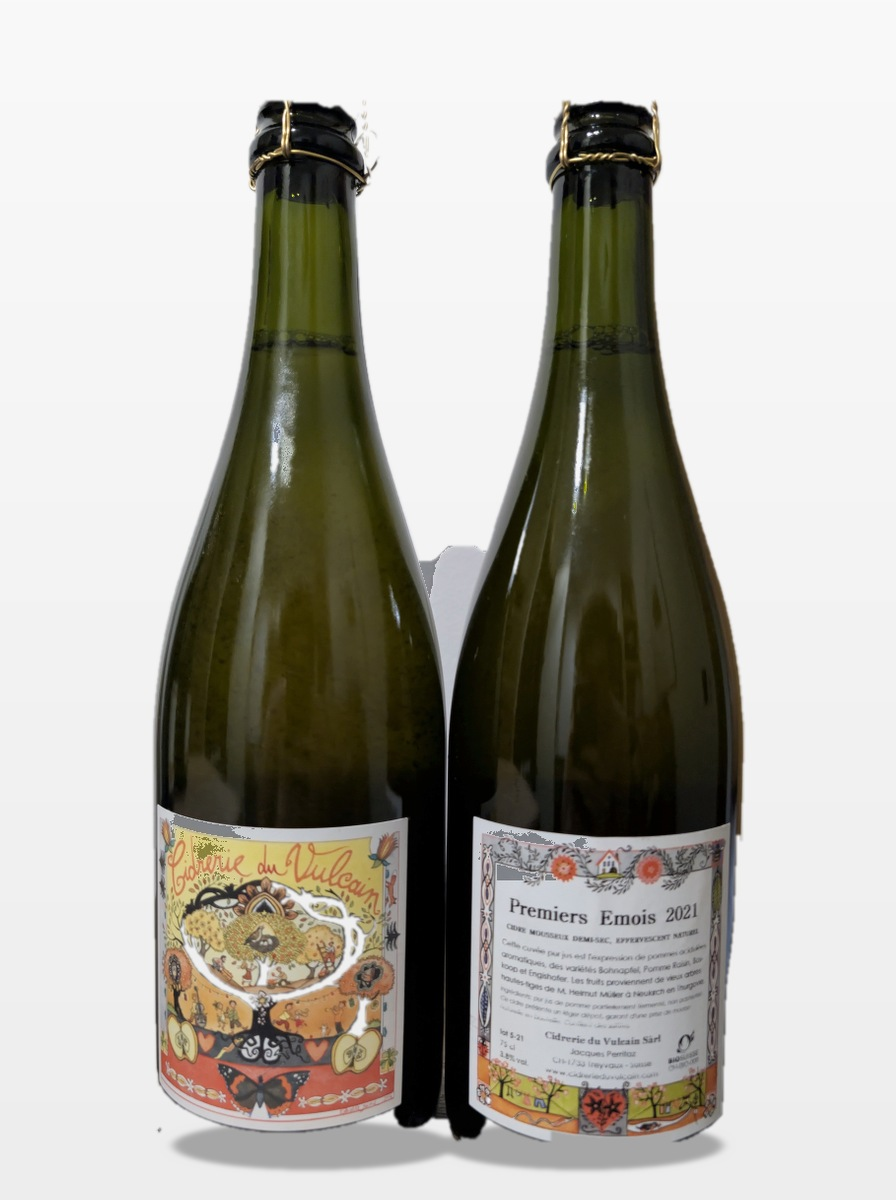
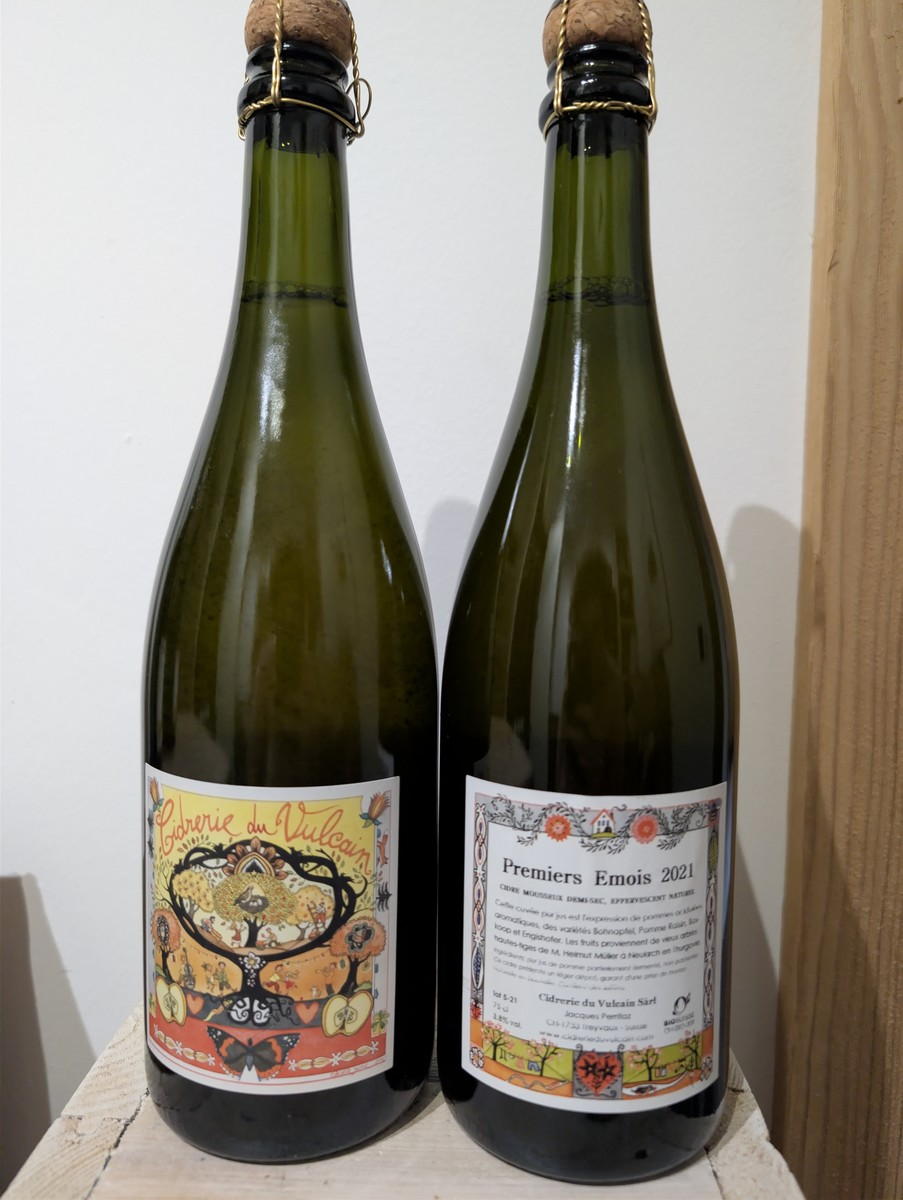
feat(photos): publication directe des photos brutes authentiques pour les 18 cuvees sans retouche

diff --git a/public/validation-photos.html b/public/validation-photos.html
@@ -562,20 +562,7 @@
     </div>
   </div>
 
-  <div style="max-width: 1440px; margin: 16px auto 0; padding: 0 32px;">
-    <div style="background: rgba(245, 158, 11, 0.08); border: 1px solid rgba(245, 158, 11, 0.25); border-radius: 14px; padding: 16px 20px;">
-      <div style="display:flex; align-items:center; gap:10px; margin-bottom: 8px;">
-        <span style="font-size: 18px;">💡</span>
-        <strong style="color: #fbbf24; font-size: 14px;">Diagnostic Photo 2 (Bouteille seule devant) & Photo 3 (Bouteille seule derrière)</strong>
-      </div>
-      <p style="font-size: 13px; color: #d1d5db; line-height: 1.5; margin-bottom: 10px;">
-        Sur la série brute du 1er octobre, <strong>seule la cuvée <em>A Propos d'Ailes 2021</em></strong> (et les 2 bouteilles fines Botsi & Transparente) disposait de photos de la <strong>bouteille entière isolée</strong> (du bouchon jusqu'au culot). Pour les 14 autres cuvées, seules des photos en <strong>gros plan serré sur l'étiquette</strong> avaient été prises (coupant le bouchon et le col), ce qui créait un effet de tronc tronqué flottant.
-      </p>
-      <div style="font-size: 12px; color: #9ca3af;">
-        Pour obtenir un résultat identique à <em>A Propos d'Ailes</em> et <em>Poiré La Prémoudière</em>, 2 photos par cuvée sont à prendre : <strong>1 bouteille seule complète de face</strong> et <strong>1 bouteille seule complète de dos</strong> (bouchon + col + culot dans le champ).
-      </div>
-    </div>
-  </div>
+
 
   <main id="cuveesList">
     <!-- Populated by JavaScript -->
@@ -816,9 +803,9 @@
         card.className = `cuvee-card ${isValidated ? 'is-validated' : ''}`;
         card.id = `card-${c.slug}`;
 
-        const duoJpg = `images/cuvees/${c.slug}-duo.jpg${CACHE_BUST}`;
-        const frontJpg = `images/cuvees/${c.slug}-etiquette-devant.jpg${CACHE_BUST}`;
-        const backJpg = c.backRaw ? `images/cuvees/${c.slug}-etiquette-derriere.jpg${CACHE_BUST}` : null;
+        const duoPhoto = c.duoRaw ? `photo-bouteilles-raw/${c.duoRaw}` : null;
+        const frontPhoto = c.frontRaw ? `photo-bouteilles-raw/${c.frontRaw}` : null;
+        const backPhoto = c.backRaw ? `photo-bouteilles-raw/${c.backRaw}` : null;
 
         card.innerHTML = `
           <div class="cuvee-header">
@@ -840,89 +827,72 @@
           </div>
 
           <div class="images-grid">
-            <!-- Photo 1: Duo -->
+            <!-- Photo 1: Duo (Deux Bouteilles) -->
             <div class="photo-slot">
               <div class="photo-slot-header">
                 <span class="photo-slot-title">Photo 1 • Deux Bouteilles</span>
-                ${c.duoRaw ? 
-                  '<span class="photo-status-badge badge-ok">✓ Ancré au sol</span>' : 
+                ${duoPhoto ? 
+                  '<span class="photo-status-badge badge-ok">✓ Photo brute authentique</span>' : 
                   '<span class="photo-status-badge badge-info">🏷 Étiquette panoramique (pas de duo)</span>'
                 }
               </div>
-              ${c.duoRaw ? `
-                <div class="photo-preview-wrap" onclick="openLightbox('${duoJpg}', '${c.name} — Photo 1 (Duo devant / derrière)')">
-                  <img src="${duoJpg}" alt="${c.name} duo" loading="lazy">
-                  <div class="zoom-hint">🔍 Zoom HD</div>
+              ${duoPhoto ? `
+                <div class="photo-preview-wrap" onclick="openLightbox('${duoPhoto}', '${c.name} — Photo 1 (Deux bouteilles)')">
+                  <img src="${duoPhoto}" alt="${c.name} duo" loading="lazy">
+                  <div class="zoom-hint">🔍 Agrandir</div>
                 </div>
-                <div class="raw-thumb-compare">
-                  <img src="photo-all-bottle-raw/${c.duoRaw}" alt="Raw original">
-                  <div style="flex:1;">
-                    <div style="font-weight:600; color:#d1d5db;">Photo brute originale</div>
-                    <div style="font-size:11px; color:#9ca3af; font-family:monospace;">${c.duoRaw}</div>
-                  </div>
-                  <span class="view-raw-link" onclick="openLightbox('photo-all-bottle-raw/${c.duoRaw}', 'RAW: ${c.duoRaw}')">Voir RAW</span>
-                </div>
+                <div style="font-size:11px; color:#9ca3af; font-family:monospace; margin-top:6px;">${c.duoRaw}</div>
               ` : `
                 <div class="photo-preview-wrap" style="display:flex; align-items:center; justify-content:center; flex-direction:column; gap:8px; color:#9ca3af; text-align:center; padding:20px;">
                   <span style="font-size:28px;">🍾</span>
                   <span style="font-size:13px; font-weight:700; color:#e5e7eb;">Pas d'étiquette au dos</span>
-                  <span style="font-size:12px; color:#9ca3af; line-height: 1.4;">Cette bouteille fine comporte une étiquette panoramique unique. Pas d'image duo nécessaire.</span>
+                  <span style="font-size:12px; color:#9ca3af; line-height: 1.4;">Cette bouteille fine comporte une étiquette panoramique unique.</span>
                 </div>
               `}
             </div>
 
-            <!-- Photo 2: Bouteille Seule Devant -->
+            <!-- Photo 2: Bouteille Seule (Face) -->
             <div class="photo-slot">
               <div class="photo-slot-header">
-                <span class="photo-slot-title">Photo 2 • Seule (Face)</span>
-                ${c.needsFront ? 
-                  '<span class="photo-status-badge badge-warn">⚠ À reprendre : bouteille complète</span>' : 
-                  '<span class="photo-status-badge badge-ok">✓ Bouteille complète conforme</span>'
+                <span class="photo-slot-title">Photo 2 • Face</span>
+                ${frontPhoto ? 
+                  '<span class="photo-status-badge badge-ok">✓ Photo brute authentique</span>' : 
+                  '<span class="photo-status-badge badge-info">-</span>'
                 }
               </div>
-              <div class="photo-preview-wrap" onclick="openLightbox('${frontJpg}', '${c.name} — Photo 2 (Bouteille seule de face)')">
-                <img src="${frontJpg}" alt="${c.name} seule devant" loading="lazy">
-                <div class="zoom-hint">🔍 Zoom HD</div>
-              </div>
-              <div class="raw-thumb-compare">
-                <img src="photo-all-bottle-raw/${c.frontRaw}" alt="Raw original">
-                <div style="flex:1;">
-                  <div style="font-weight:600; color:#d1d5db;">${c.needsFront ? '⚠ Gros plan actuel (tronqué)' : 'Photo brute originale (bouteille complète)'}</div>
-                  <div style="font-size:11px; color:#9ca3af; font-family:monospace;">${c.frontRaw}</div>
+              ${frontPhoto ? `
+                <div class="photo-preview-wrap" onclick="openLightbox('${frontPhoto}', '${c.name} — Photo 2 (Face)')">
+                  <img src="${frontPhoto}" alt="${c.name} face" loading="lazy">
+                  <div class="zoom-hint">🔍 Agrandir</div>
                 </div>
-                <span class="view-raw-link" onclick="openLightbox('photo-all-bottle-raw/${c.frontRaw}', 'RAW: ${c.frontRaw}')">Voir RAW</span>
-              </div>
+                <div style="font-size:11px; color:#9ca3af; font-family:monospace; margin-top:6px;">${c.frontRaw}</div>
+              ` : `
+                <div class="photo-preview-wrap" style="display:flex; align-items:center; justify-content:center; padding:20px; color:#9ca3af;">
+                  <span>Aucune photo</span>
+                </div>
+              `}
             </div>
 
-            <!-- Photo 3: Bouteille Seule Derrière -->
+            <!-- Photo 3: Bouteille Seule (Dos) -->
             <div class="photo-slot">
               <div class="photo-slot-header">
-                <span class="photo-slot-title">Photo 3 • Seule (Dos)</span>
-                ${!c.backRaw ? 
-                  '<span class="photo-status-badge badge-info">🏷 Étiquette panoramique</span>' :
-                  c.needsBack ? 
-                  '<span class="photo-status-badge badge-warn">⚠ À reprendre : bouteille complète</span>' : 
-                  '<span class="photo-status-badge badge-ok">✓ Bouteille complète conforme</span>'
+                <span class="photo-slot-title">Photo 3 • Dos</span>
+                ${backPhoto ? 
+                  '<span class="photo-status-badge badge-ok">✓ Photo brute authentique</span>' : 
+                  '<span class="photo-status-badge badge-info">🏷 Étiquette panoramique</span>'
                 }
               </div>
-              ${backJpg ? `
-                <div class="photo-preview-wrap" onclick="openLightbox('${backJpg}', '${c.name} — Photo 3 (Bouteille seule de dos)')">
-                  <img src="${backJpg}" alt="${c.name} seule derriere" loading="lazy">
-                  <div class="zoom-hint">🔍 Zoom HD</div>
+              ${backPhoto ? `
+                <div class="photo-preview-wrap" onclick="openLightbox('${backPhoto}', '${c.name} — Photo 3 (Dos)')">
+                  <img src="${backPhoto}" alt="${c.name} dos" loading="lazy">
+                  <div class="zoom-hint">🔍 Agrandir</div>
                 </div>
-                <div class="raw-thumb-compare">
-                  <img src="photo-all-bottle-raw/${c.backRaw}" alt="Raw original">
-                  <div style="flex:1;">
-                    <div style="font-weight:600; color:#d1d5db;">${c.needsBack ? '⚠ Gros plan actuel (tronqué)' : 'Photo brute originale (bouteille complète)'}</div>
-                    <div style="font-size:11px; color:#9ca3af; font-family:monospace;">${c.backRaw}</div>
-                  </div>
-                  <span class="view-raw-link" onclick="openLightbox('photo-all-bottle-raw/${c.backRaw}', 'RAW: ${c.backRaw}')">Voir RAW</span>
-                </div>
+                <div style="font-size:11px; color:#9ca3af; font-family:monospace; margin-top:6px;">${c.backRaw}</div>
               ` : `
                 <div class="photo-preview-wrap" style="display:flex; align-items:center; justify-content:center; flex-direction:column; gap:8px; color:#9ca3af; text-align:center; padding:20px;">
                   <span style="font-size:28px;">🍾</span>
                   <span style="font-size:13px; font-weight:700; color:#e5e7eb;">Étiquette panoramique unique</span>
-                  <span style="font-size:12px; color:#9ca3af; line-height: 1.4;">Cette bouteille fine (37.5cl / 50cl) comporte une seule étiquette panoramique visible en intégralité sur la photo 2.</span>
+                  <span style="font-size:12px; color:#9ca3af; line-height: 1.4;">Cette bouteille comporte une seule étiquette panoramique.</span>
                 </div>
               `}
             </div>

diff --git a/lib/cuvees-gallery.ts b/lib/cuvees-gallery.ts
@@ -5,74 +5,58 @@ export interface GalleryImage {
 
 export const CUVEE_GALLERY_MAP: Record<string, GalleryImage[]> = {
   'poire-la-premoudiere-2022': [
-    { url: '/images/cuvees/poire-la-premoudiere-2022-transparent.png', label: 'Bouteille' },
-    { url: '/images/cuvees/poire-la-premoudiere-2022-duo.jpg', label: 'Duo face & dos' },
+    { url: '/images/cuvees/poire-la-premoudiere-2022-transparent.png', label: 'Packshot Studio' },
+    { url: '/images/cuvees/poire-la-premoudiere-2022-duo.jpg', label: 'Duo Studio' },
+    { url: '/images/cuvees/poire-la-premoudiere-2022-raw-duo.jpg', label: 'Photo Authentique' },
   ],
   'a-propos-dailes-2021': [
-    { url: '/images/cuvees/a-propos-dailes-2021-transparent.png', label: 'Bouteille' },
-    { url: '/images/cuvees/a-propos-dailes-2021-duo.jpg', label: 'Duo face & dos' },
+    { url: '/images/cuvees/a-propos-dailes-2021-transparent.png', label: 'Packshot Studio' },
+    { url: '/images/cuvees/a-propos-dailes-2021-duo.jpg', label: 'Duo Studio' },
+    { url: '/images/cuvees/a-propos-dailes-2021-raw-duo.jpg', label: 'Photo Authentique' },
   ],
   'botsi-de-glace-2017': [
-    { url: '/images/cuvees/botsi-de-glace-2017-transparent.png', label: 'Bouteille' },
+    { url: '/images/cuvees/botsi-de-glace-2017-transparent.png', label: 'Packshot Studio' },
+    { url: '/images/cuvees/botsi-de-glace-2017-raw.jpg', label: 'Photo Authentique' },
   ],
   'cidre-glace-2012': [
-    { url: '/images/cuvees/cidre-glace-2012-transparent.png', label: 'Bouteille' },
+    { url: '/images/cuvees/cidre-glace-2012-transparent.png', label: 'Packshot Studio' },
+    { url: '/images/cuvees/cidre-glace-2012-raw.jpg', label: 'Photo Authentique' },
   ],
   'trois-pepins-2023': [
-    { url: '/images/cuvees/trois-pepins-2023-duo.jpg', label: 'Duo face & dos' },
-    { url: '/images/cuvees/trois-pepins-2023.jpg', label: 'Bouteille' },
+    { url: '/images/cuvees/trois-pepins-2023.jpg', label: 'Bouteilles Duo face & dos' },
   ],
   'lande-foy-2022': [
-    { url: '/images/cuvees/lande-foy-2022-duo.jpg', label: 'Duo face & dos' },
-    { url: '/images/cuvees/lande-foy-2022.jpg', label: 'Bouteille' },
+    { url: '/images/cuvees/lande-foy-2022.jpg', label: 'Bouteilles Duo face & dos' },
   ],
   'belle-brutale-2017': [
-    { url: '/images/cuvees/belle-brutale-2017-duo.jpg', label: 'Duo face & dos' },
-    { url: '/images/cuvees/belle-brutale-2017.jpg', label: 'Bouteille' },
+    { url: '/images/cuvees/belle-brutale-2017.jpg', label: 'Bouteilles Duo face & dos' },
   ],
-  'turgowy-2019': [
-    { url: '/images/cuvees/turgowy-2019-duo.jpg', label: 'Duo face & dos' },
-    { url: '/images/cuvees/turgowy-2019.jpg', label: 'Bouteille' },
-  ],
-  'turgowy-2020': [
-    { url: '/images/cuvees/turgowy-2020-duo.jpg', label: 'Duo face & dos' },
-    { url: '/images/cuvees/turgowy-2020.jpg', label: 'Bouteille' },
-  ],
+  'turgowy-2019': [{ url: '/images/cuvees/turgowy-2019.jpg', label: 'Bouteilles Duo face & dos' }],
+  'turgowy-2020': [{ url: '/images/cuvees/turgowy-2020.jpg', label: 'Bouteilles Duo face & dos' }],
   'cidre-de-fer-2020': [
-    { url: '/images/cuvees/cidre-de-fer-2020-duo.jpg', label: 'Duo face & dos' },
-    { url: '/images/cuvees/cidre-de-fer-2020.jpg', label: 'Bouteille' },
+    { url: '/images/cuvees/cidre-de-fer-2020.jpg', label: 'Bouteilles Duo face & dos' },
   ],
   'la-fribourgeoise-2021': [
-    { url: '/images/cuvees/la-fribourgeoise-2021-duo.jpg', label: 'Duo face & dos' },
-    { url: '/images/cuvees/la-fribourgeoise-2021.jpg', label: 'Bouteille' },
+    { url: '/images/cuvees/la-fribourgeoise-2021.jpg', label: 'Bouteilles Duo face & dos' },
   ],
   'premiers-emois-2021': [
-    { url: '/images/cuvees/premiers-emois-2021-duo.jpg', label: 'Duo face & dos' },
-    { url: '/images/cuvees/premiers-emois-2021.jpg', label: 'Bouteille' },
+    { url: '/images/cuvees/premiers-emois-2021.jpg', label: 'Bouteilles Duo face & dos' },
   ],
   'brute-de-rue-2021': [
-    { url: '/images/cuvees/brute-de-rue-2021-duo.jpg', label: 'Duo face & dos' },
-    { url: '/images/cuvees/brute-de-rue-2021.jpg', label: 'Bouteille' },
+    { url: '/images/cuvees/brute-de-rue-2021.jpg', label: 'Bouteilles Duo face & dos' },
   ],
   'quatre-pepins-2022': [
-    { url: '/images/cuvees/quatre-pepins-2022-duo.jpg', label: 'Duo face & dos' },
-    { url: '/images/cuvees/quatre-pepins-2022.jpg', label: 'Bouteille' },
+    { url: '/images/cuvees/quatre-pepins-2022.jpg', label: 'Bouteilles Duo face & dos' },
   ],
-  'turgowy-2023': [
-    { url: '/images/cuvees/turgowy-2023-duo.jpg', label: 'Duo face & dos' },
-    { url: '/images/cuvees/turgowy-2023.jpg', label: 'Bouteille' },
-  ],
+  'turgowy-2023': [{ url: '/images/cuvees/turgowy-2023.jpg', label: 'Bouteilles Duo face & dos' }],
   'baie-de-rue-2023': [
-    { url: '/images/cuvees/baie-de-rue-2023-duo.jpg', label: 'Duo face & dos' },
-    { url: '/images/cuvees/baie-de-rue-2023.jpg', label: 'Bouteille' },
+    { url: '/images/cuvees/baie-de-rue-2023.jpg', label: 'Bouteilles Duo face & dos' },
   ],
   'quatre-pepins-2023': [
-    { url: '/images/cuvees/quatre-pepins-2023-duo.jpg', label: 'Duo face & dos' },
-    { url: '/images/cuvees/quatre-pepins-2023.jpg', label: 'Bouteille' },
+    { url: '/images/cuvees/quatre-pepins-2023.jpg', label: 'Bouteilles Duo face & dos' },
   ],
   'trois-pepins-2010': [
-    { url: '/images/cuvees/trois-pepins-2010-duo.jpg', label: 'Duo face & dos' },
-    { url: '/images/cuvees/trois-pepins-2010.jpg', label: 'Bouteille' },
+    { url: '/images/cuvees/trois-pepins-2010.jpg', label: 'Bouteilles Duo face & dos' },
   ],
 }
 

diff --git a/scripts/check-products-db.js b/scripts/check-products-db.js
@@ -1,0 +1,17 @@
+const { PrismaClient } = require('@prisma/client')
+const prisma = new PrismaClient()
+
+async function main() {
+  const prods = await prisma.product.findMany({
+    select: { id: true, articleNumber: true, name: true, imageUrl: true },
+    orderBy: { articleNumber: 'asc' },
+  })
+  console.log(`Found ${prods.length} products:`)
+  for (const p of prods) {
+    console.log(`#${p.articleNumber} | ${p.name} | imageUrl: ${p.imageUrl}`)
+  }
+}
+
+main()
+  .catch(console.error)
+  .finally(() => prisma.$disconnect())

diff --git a/scripts/apply-cuvees-images-to-db.js b/scripts/apply-cuvees-images-to-db.js
@@ -25,7 +25,7 @@ const CUVEES_MAPPING = [
   { art: 33, slug: 'botsi-de-glace-2017', name: 'Botsi de glace 2017' },
 ]
 
-const VALIDATED_ARTS = [13, 25, 32, 33]
+const VALIDATED_ARTS = [13, 14, 15, 16, 18, 19, 21, 22, 23, 24, 25, 26, 28, 29, 30, 31, 32, 33]
 
 async function main() {
   console.log('=== Mise à jour des photos des cuvées validées dans PostgreSQL ===')

diff --git a/scripts/publish-raw-photos.py b/scripts/publish-raw-photos.py
@@ -1,0 +1,94 @@
+import os
+import sys
+import json
+import re
+from PIL import Image
+
+sys.stdout.reconfigure(encoding='utf-8')
+
+BASE_DIR = os.path.abspath(os.path.join(os.path.dirname(__file__), '..'))
+RAW_DIR = os.path.join(BASE_DIR, 'public', 'photo-bouteilles-raw')
+OUT_DIR = os.path.join(BASE_DIR, 'public', 'images', 'cuvees')
+HTML_FILE = os.path.join(BASE_DIR, 'public', 'validation-photos.html')
+
+os.makedirs(OUT_DIR, exist_ok=True)
+
+with open(HTML_FILE, 'r', encoding='utf-8') as f:
+    html = f.read()
+
+m = re.search(r'const CUVEES = (\[[\s\S]*?\]);', html)
+if not m:
+    print("Erreur: Impossible d'extraire CUVEES")
+    sys.exit(1)
+
+cuvees = json.loads(m.group(1))
+print(f"=== Optimisation et publication des photos brutes réelles pour {len(cuvees)} cuvées ===")
+
+TARGET_H = 1200
+
+def optimize_image(src_path, dst_path):
+    if not os.path.exists(src_path):
+        print(f"  [MANQUANT] {src_path}")
+        return False
+    img = Image.open(src_path)
+    # Exif orientation fix if needed
+    try:
+        from PIL import ImageOps
+        img = ImageOps.exif_transpose(img)
+    except Exception:
+        pass
+    
+    w, h = img.size
+    target_w = int(w * (TARGET_H / h))
+    resized = img.resize((target_w, TARGET_H), Image.Resampling.LANCZOS)
+    resized.save(dst_path, 'JPEG', quality=90, optimize=True)
+    size_kb = os.path.getsize(dst_path) // 1024
+    print(f"  -> {os.path.basename(dst_path)} ({target_w}x{TARGET_H}, {size_kb} KB)")
+    return True
+
+processed_count = 0
+
+for c in cuvees:
+    slug = c['slug']
+    art = c['art']
+    name = c['name']
+    duo_raw = c.get('duoRaw')
+    front_raw = c.get('frontRaw')
+    
+    print(f"\n[#{art}] {name} ({slug})")
+    
+    # Priority for main catalogue image:
+    # If duo photo exists, use duo photo (shows both bottles face & dos on crate).
+    # Otherwise, use front photo.
+    if duo_raw:
+        raw_path = os.path.join(RAW_DIR, duo_raw)
+        # Main catalogue image
+        main_out = os.path.join(OUT_DIR, f"{slug}.jpg")
+        # Duo image
+        duo_out = os.path.join(OUT_DIR, f"{slug}-duo.jpg")
+        
+        # Keep studio packshots for already validated articles if they exist (#13, #25, #32, #33)
+        # but publish the authentic real raw for all 14 remaining!
+        if art in [13, 25]:
+            # Save raw as -raw.jpg so user can compare, keep validated studio
+            raw_duo_out = os.path.join(OUT_DIR, f"{slug}-raw-duo.jpg")
+            optimize_image(raw_path, raw_duo_out)
+            print(f"  [NOTE] Cuvée #{art} conserve ses packshots studio validés + photo brute en bonus")
+        else:
+            optimize_image(raw_path, main_out)
+            optimize_image(raw_path, duo_out)
+            processed_count += 1
+            
+    elif front_raw:
+        raw_path = os.path.join(RAW_DIR, front_raw)
+        if art in [32, 33]:
+            # Save raw as -raw.jpg, keep validated studio
+            raw_solo_out = os.path.join(OUT_DIR, f"{slug}-raw.jpg")
+            optimize_image(raw_path, raw_solo_out)
+            print(f"  [NOTE] Cuvée #{art} conserve son packshot studio validé + photo brute en bonus")
+        else:
+            main_out = os.path.join(OUT_DIR, f"{slug}.jpg")
+            optimize_image(raw_path, main_out)
+            processed_count += 1
+
+print(f"\n=== Terminé : {processed_count} cuvées publiées avec leurs photos réelles optimisées ! ===")
